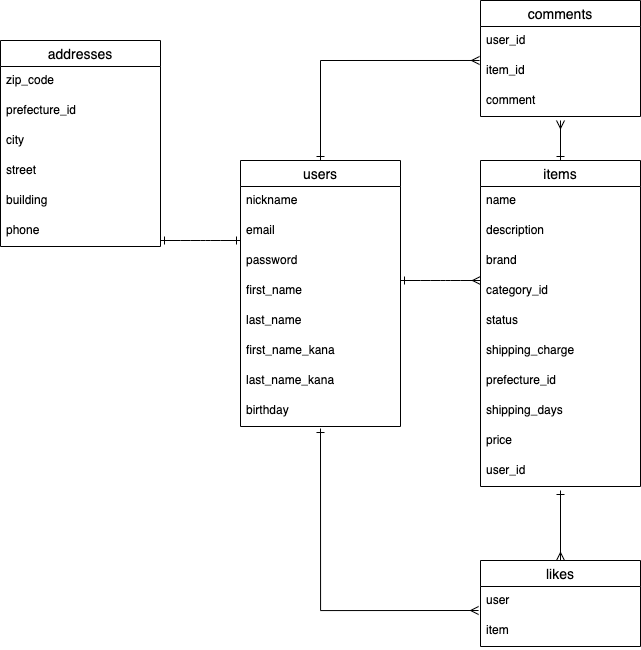
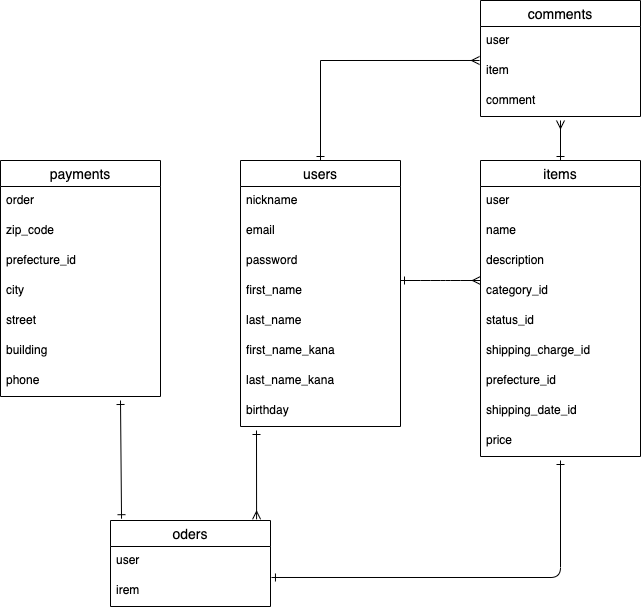
README修正

diff --git a/README.md b/README.md
@@ -16,71 +16,61 @@
 -has_many :items
 -has_many :orders
 -has_many :comments
--has_many :likes
 
-##Addresses table
+##Payments table
 
 | Column             | Type                | Options                        |
 |--------------------|---------------------|--------------------------------|
+| orders             | references          | null: false,foreign_key: true  |
 | zip_code           | string              | null: false                    |
-| prefecture_id      | integer             | null: false,foreign_key: true  |
-| building           | string              | null: false                    |
+| prefecture_id      | integer             | null: false                    |
 | city               | string              | null: false                    |
 | street             | string              | null: false                    |
-| phone              | integer             | null: false                    |
+| building           | string              |                                |
+| phone              | string              | null: false                    |
 
--has_many :addresses, through: :orders
+-belongs_to :order
 
 
 ##Orders table
 
 | Column             | Type                | Options                        |
 |--------------------|---------------------|--------------------------------|
-| user_id           | integer              | null: false,foreign_key: true  |
-| item_id           | integer              | null: false,foreign_key: true  |
+| user               | references          | null: false,foreign_key: true  |
+| item               | references          | null: false,foreign_key: true  |
 
--has_many :orders
 -belongs_to :user
+-belongs_to :item
+-has_one :payment
+
 
 
 ##Items table
 
 | Column             | Type                | Options                       |
 |--------------------|---------------------|-------------------------------|
+| user               | references          | null: false, foreign_key: true|
 | name               | string              | null: false                   |
 | description        | text                | null: false                   |
-| category_id        | references          | null: false                   |               
-| status             | string              | null: false                   |       
-| shipping_charge    | integer             | null: false                   |
+| category_id        | integer             | null: false                   |               
+| status_id          | integer             | null: false                   |       
+| shipping_charge_id | integer             | null: false                   |
 | prefecture_id      | integer             | null: false                   |
-| shipping_days      | integer             | null: false                   |
+| shipping_date_id   | integer             | null: false                   |
 | price              | integer             | null: false                   |
-| user_id            | references          | null: false, foreign_key: true|
-
 
 -belongs_to :user
--has_many_attached :images
+-has_one :order
 -has_many :comments
--has_many :likes
 
 
 ##Comments table
 
 | Column             | Type                | Options                       |
 |--------------------|---------------------|-------------------------------|
-| user_id            | references          | null: false, foreign_key: true|                   
-| item_id            | references          | null: false, foreign_key: true|
-| comment            | string              | null: false                   |
-
--belongs_to :user
--belongs_to :item
-
-##Likes table
-
-| Column             | Type                | Options                       |
-|--------------------|---------------------|-------------------------------|               
-| user               | references          | null: false, foreign_key: true|
-| item               | references          | null: false, foreign_key: true|                         |
+| user               | references          | null: false, foreign_key: true|                   
+| item               | references          | null: false, foreign_key: true|
+| comment            | text                | null: false                   |
 
 -belongs_to :user
 -belongs_to :item
